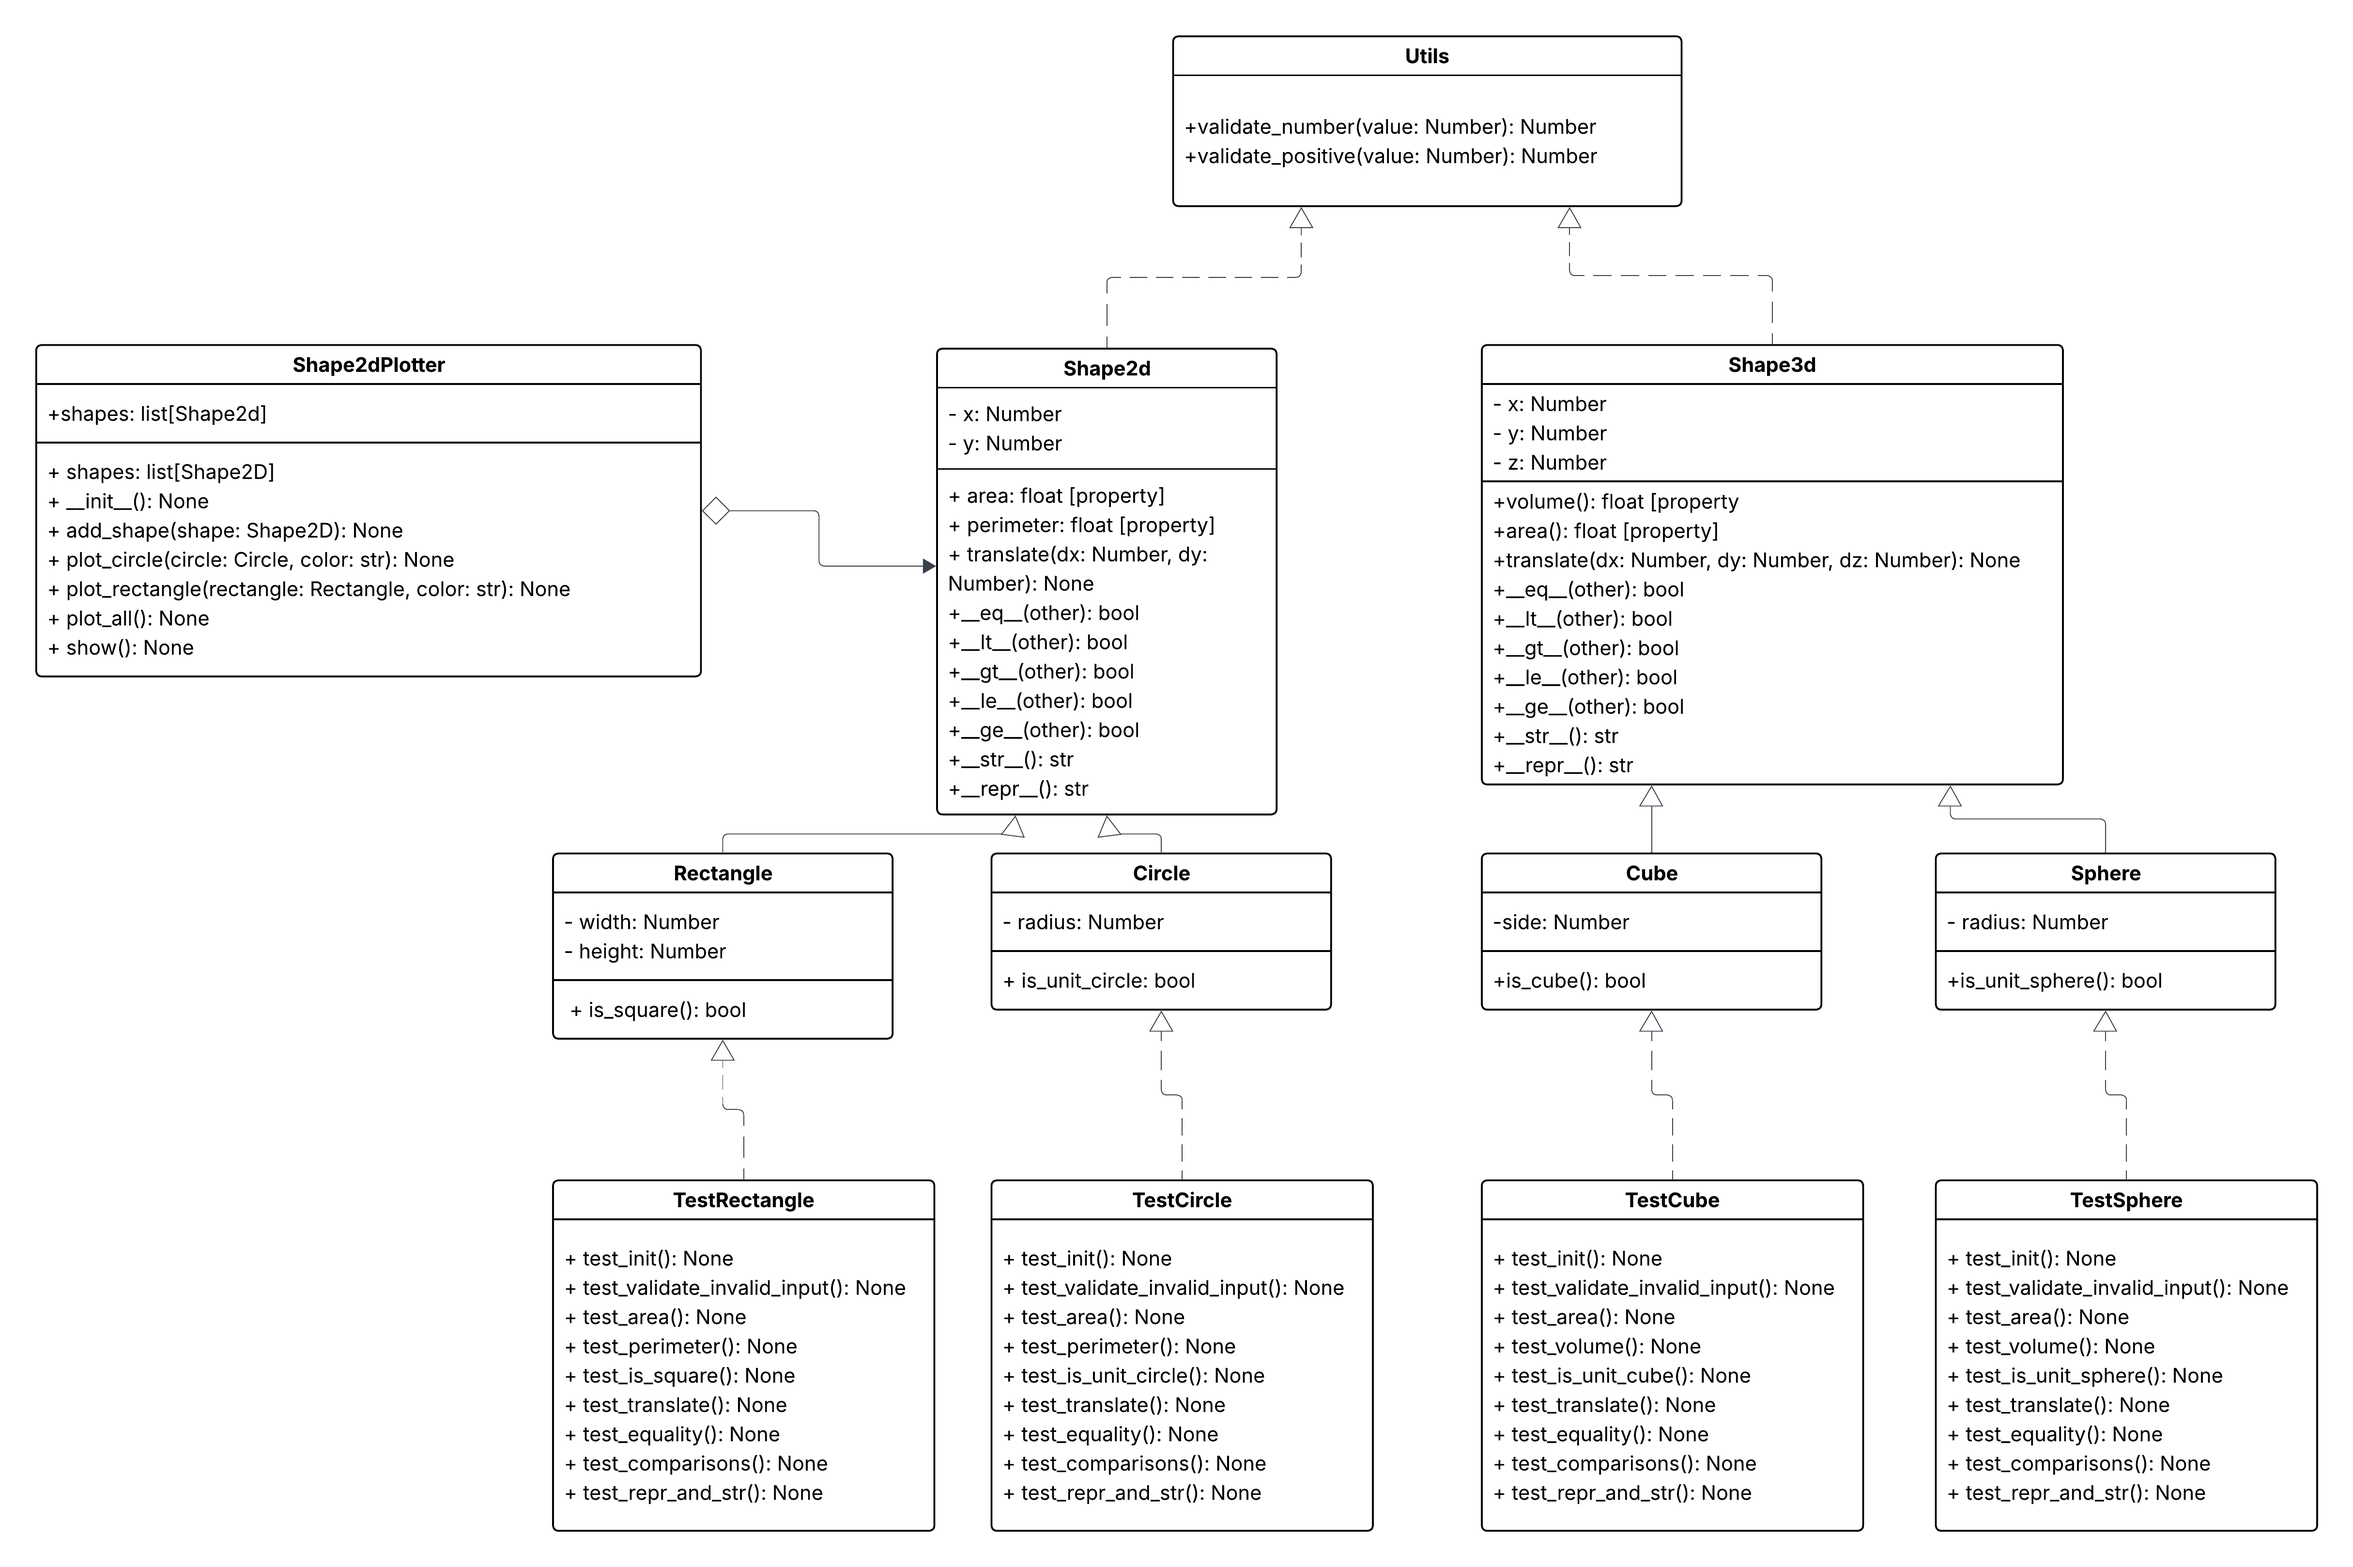
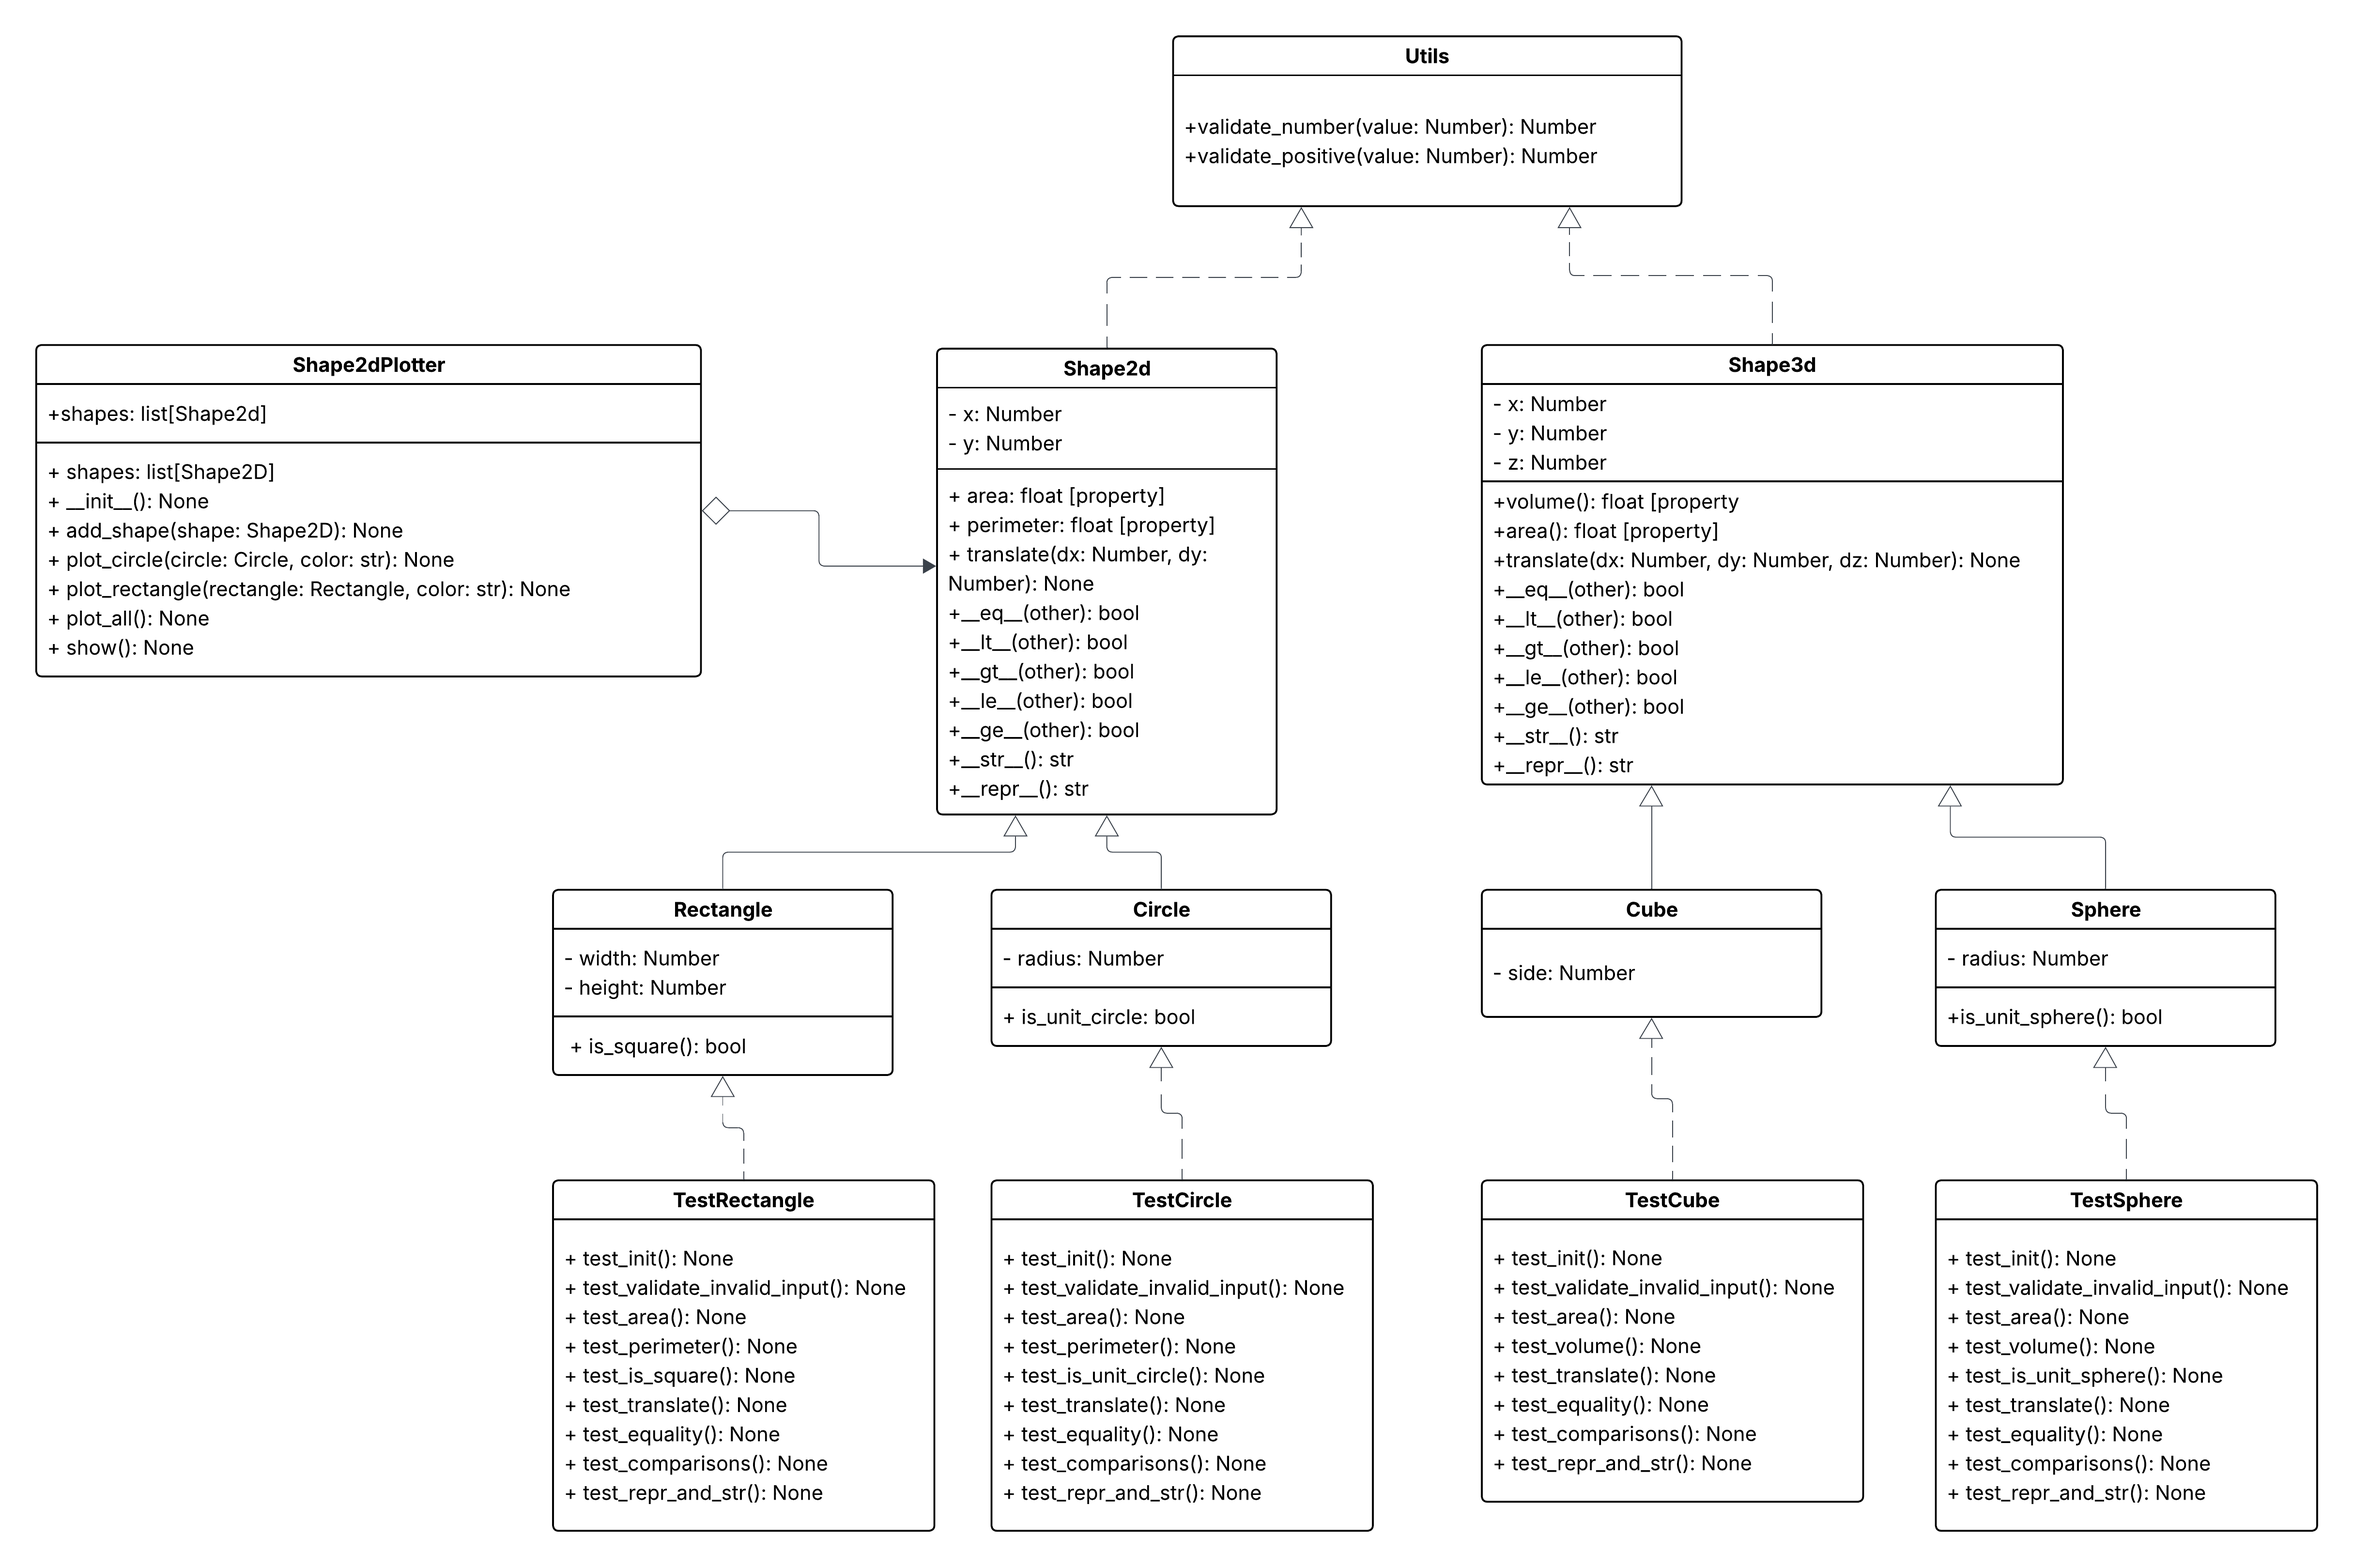
updated test and uml as well deleting is_cube

diff --git a/Lab2/test_cube.py b/Lab2/test_cube.py
@@ -33,10 +33,6 @@ class TestCube(unittest.TestCase):
         self.assertEqual(c._y, -1)
         self.assertEqual(c._z, 2)
 
-    def test_is_cube(self):
-        c = Cube(5)
-        self.assertTrue(c.is_cube())
-
     def test_equality(self):
         c1 = Cube(3)
         c2 = Cube(3, 10, 10, 10)  # same side, different position
